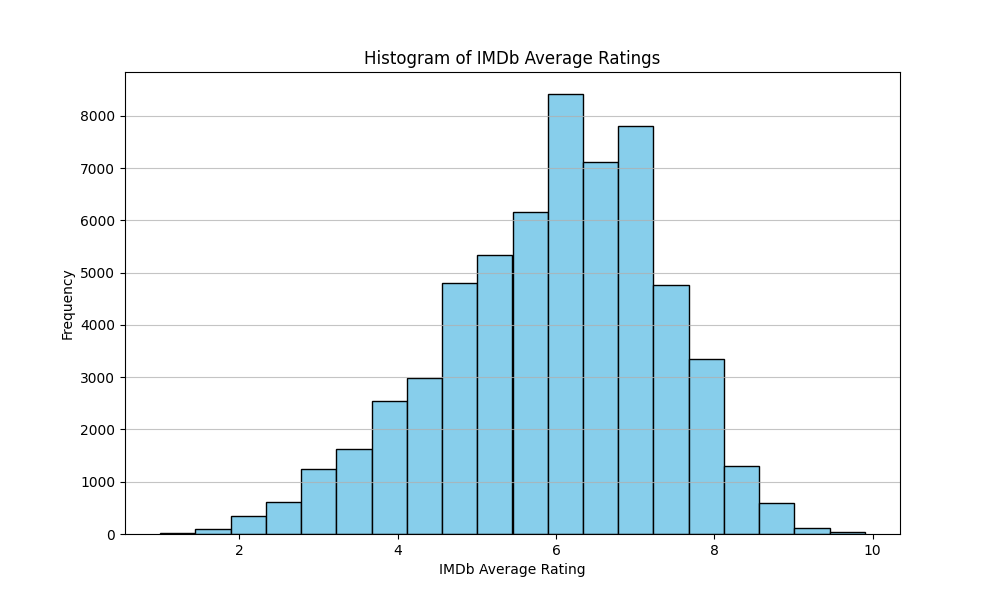
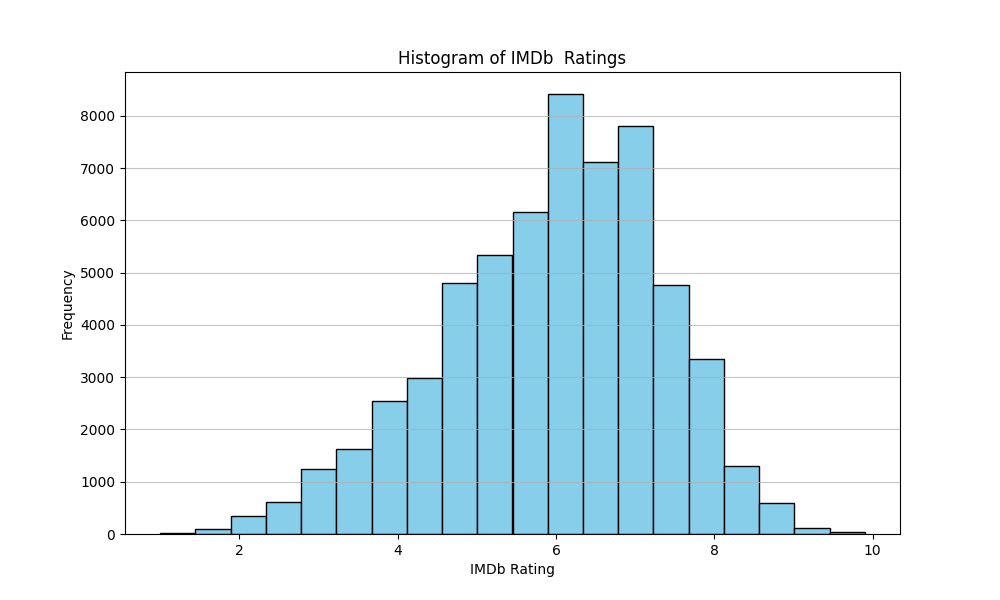
fix histogram xaxis label

Changed region(s): [[0.372, 0.06, 0.651, 0.12], [0.434, 0.93, 0.589, 0.96]]

diff --git a/histogram.py b/histogram.py
@@ -7,8 +7,8 @@ def plot_histogram(file_path, column_name):
 
     plt.figure(figsize=(10, 6))
     plt.hist(data[column_name], bins=20, color='skyblue', edgecolor='black')
-    plt.title('Histogram of IMDb Average Ratings')
-    plt.xlabel('IMDb Average Rating')
+    plt.title('Histogram of IMDb  Ratings')
+    plt.xlabel('IMDb Rating')
     plt.ylabel('Frequency')
     plt.grid(axis='y', alpha=0.75)
     plt.savefig('./plots/film_ratings.png')
@@ -16,5 +16,4 @@ def plot_histogram(file_path, column_name):
 if __name__ == "__main__":
     csv_file_path = "./datasets/amazon_prime_films.csv"
 
-    # Plot the histogram for 'imdbAverageRating' column
     plot_histogram(csv_file_path, 'imdbAverageRating')
